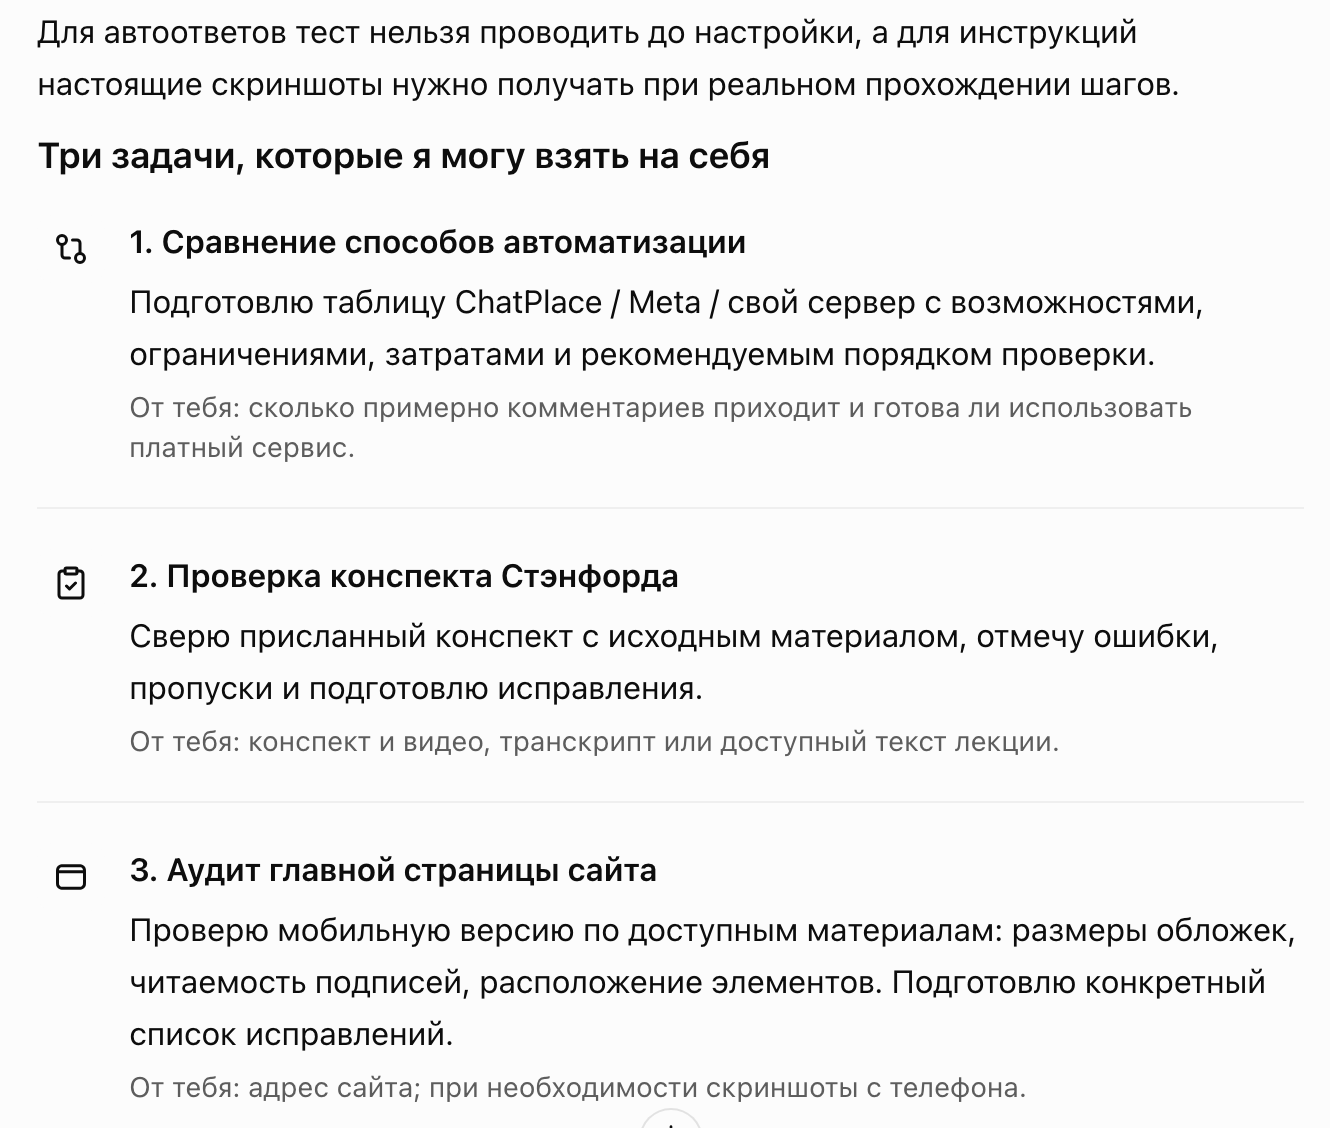
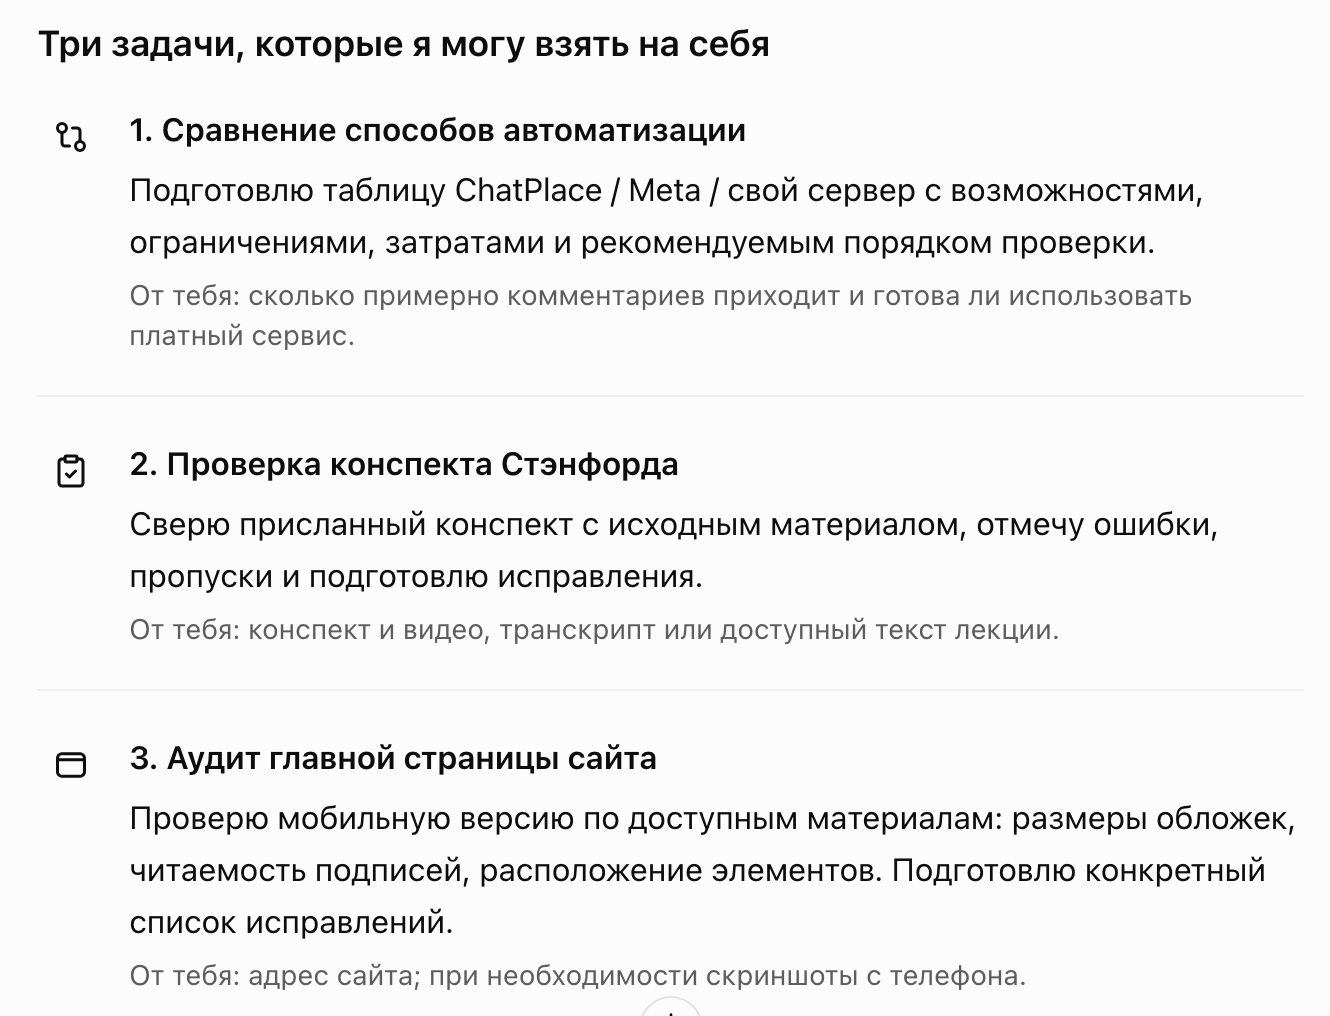
СВАЛКА: обрезать верх скрина tri-zadachi, правка 8

diff --git a/claude-ai/razobrat-zaval-del-v-chatgpt/index.html b/claude-ai/razobrat-zaval-del-v-chatgpt/index.html
@@ -753,7 +753,7 @@ html { scroll-padding-bottom: calc(var(--cookie-height, 0px) + 16px) }
 <figure class="shot-fig"><div class="shot"><img src="assets/plan-2.webp" width="1329" height="1038" alt="У каждого дела есть первый шаг и объяснение, когда его можно считать законченным." loading="lazy" decoding="async"></div><figcaption>Для каждого дела ChatGPT указал первый шаг и объяснил, когда дело можно считать законченным.</figcaption></figure>
 
 <p>Проверь, можно ли выполнить <b>дела до десяти минут</b> сразу или для них нужно сначала закончить что-то другое. В конце ответа ChatGPT предложит до трёх задач, для которых может что-то подготовить в чате.</p>
-<figure class="shot-fig"><div class="shot"><img src="assets/tri-zadachi.webp" width="1330" height="1128" alt="ChatGPT предлагает три дела, за которые может взяться, и спрашивает, что ему для этого нужно." loading="lazy" decoding="async"></div><figcaption>ChatGPT предложил три дела, за которые может взяться, и спросил, какие сведения нужны для каждого.</figcaption></figure>
+<figure class="shot-fig"><div class="shot"><img src="assets/tri-zadachi.webp" width="1330" height="1016" alt="ChatGPT предлагает три дела, за которые может взяться, и спрашивает, что ему для этого нужно." loading="lazy" decoding="async"></div><figcaption>ChatGPT предложил три дела, за которые может взяться, и спросил, какие сведения нужны для каждого.</figcaption></figure>
 
 <div class="result"><b>Результат:</b> у тебя есть план на день, а ChatGPT предложил, какие задачи можно ему поручить. Проверь, учтены ли твои сроки и время; дела, которые не помещаются в день, должны остаться отдельным списком.</div>
 </section>
